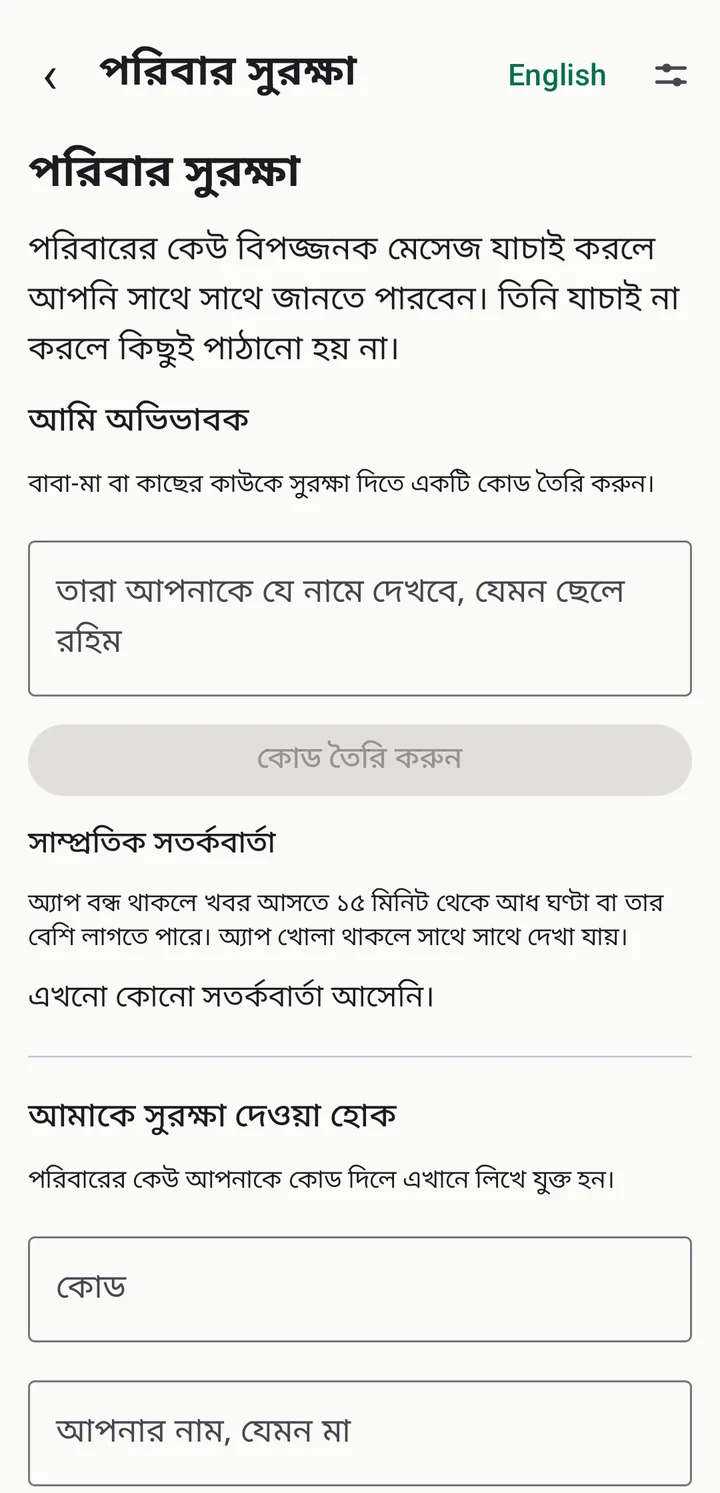
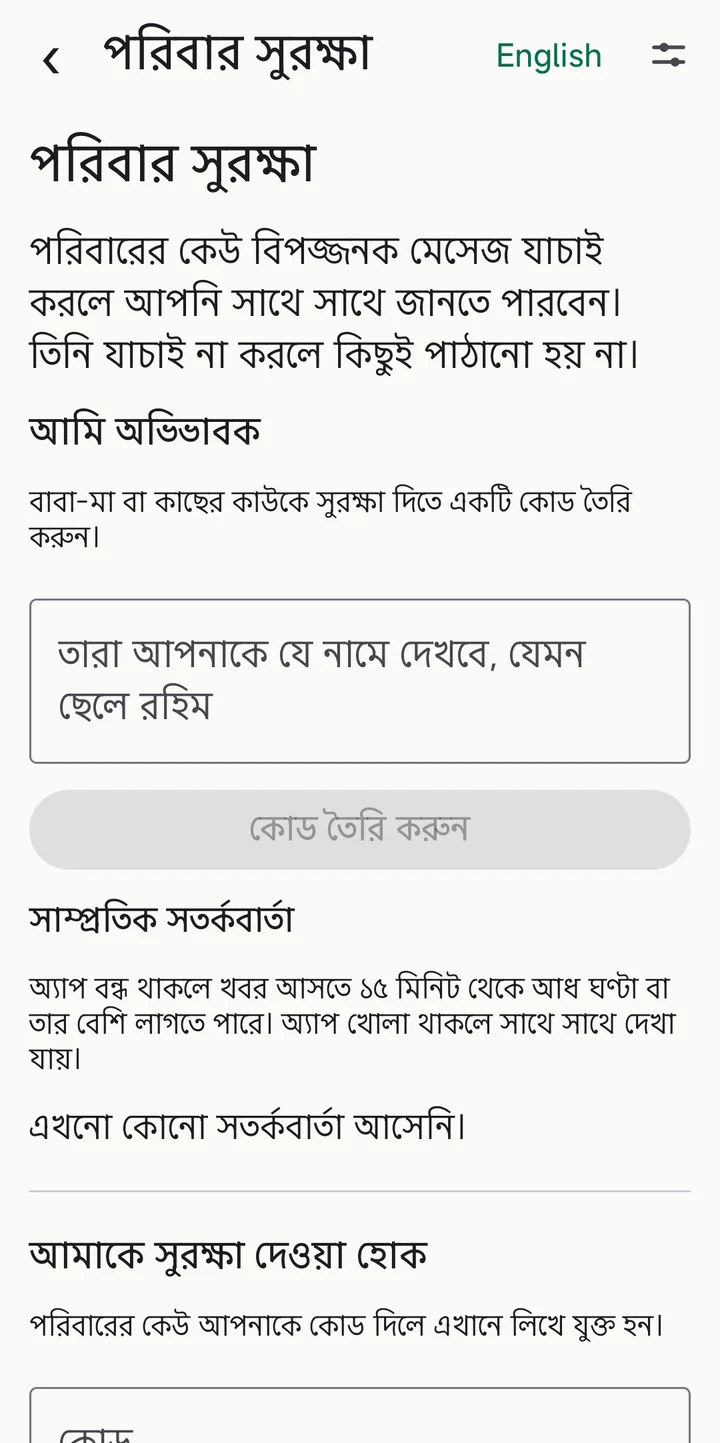
Website: show the auto-filled GD application, real-phone screenshots, one-page print note

diff --git a/index.html b/index.html
@@ -41,7 +41,7 @@
 </div>
 <p class="small"><a href="mailto:sotorko@azimulkabir.com?subject=Sotorko">প্রকাশের খবর পেতে ইমেইল করুন</a></p>
 </div>
-<div class="shot hero-shot"><img src="assets/shots/bn/result.webp" width="720" height="1493" alt="মেসেজ যাচাইয়ের ফল: লাল &quot;বিপদ&quot; বার্তা, কে পাঠিয়েছে তার তিনটি বিকল্প এবং ভুলে পাঠানো টাকা ফেরত চাওয়ার সতর্কতা।" decoding="async" fetchpriority="high"></div>
+<div class="shot hero-shot"><img src="assets/shots/bn/result.webp" width="720" height="1443" alt="মেসেজ যাচাইয়ের ফল: লাল &quot;বিপদ&quot; বার্তা, কে পাঠিয়েছে তার তিনটি বিকল্প এবং ভুলে পাঠানো টাকা ফেরত চাওয়ার সতর্কতা।" decoding="async" fetchpriority="high"></div>
 </div>
 </section>
 
@@ -63,16 +63,16 @@
 <section id="screens" class="tint-green" aria-labelledby="shots-h">
 <div class="wrap">
 <h2 id="shots-h">অ্যাপটি দেখতে যেমন</h2>
-<div class="gallery" tabindex="0" role="group" aria-labelledby="shots-h"><figure class="gallery-item"><div class="shot"><img src="assets/shots/bn/home.webp" width="720" height="1493" alt="সতর্ক অ্যাপের হোম স্ক্রিন: মেসেজ যাচাই, নম্বর যাচাই, পরিবার সুরক্ষা ও হটলাইনের বড় ছবির বোতাম, নিচে লাল রঙে &quot;আমি প্রতারিত হয়েছি&quot;।" loading="lazy" decoding="async"></div><figcaption><strong>সবকিছু এক জায়গায়</strong>বড় ছবির বোতামে মেসেজ ও নম্বর যাচাই, হটলাইন আর পরিবার সুরক্ষা। পড়তে হয় কম, বুঝতে সহজ।</figcaption></figure><figure class="gallery-item"><div class="shot"><img src="assets/shots/bn/scammed.webp" width="720" height="1493" alt="প্রতারিত হলে করণীয়ের পাঁচটি ধাপ এবং বিকাশ, নগদ, বাংলাদেশ ব্যাংক ও ৯৯৯-এ ফোন করার বোতাম।" loading="lazy" decoding="async"></div><figcaption><strong>প্রতারিত হলে করণীয়</strong>এখনই কী করবেন তার ধাপ আর হটলাইনে এক ট্যাপে ফোন। নিচে থানা ও সেবাদাতার অভিযোগের খসড়া।</figcaption></figure><figure class="gallery-item"><div class="shot"><img src="assets/shots/bn/family.webp" width="720" height="1493" alt="পরিবার সুরক্ষার পর্দা: অভিভাবক হিসেবে কোড তৈরি করার ঘর এবং কোড দিয়ে যুক্ত হওয়ার ঘর।" loading="lazy" decoding="async"></div><figcaption><strong>পরিবারকে সুরক্ষা দিন</strong>বাবা-মা বিপজ্জনক মেসেজ যাচাই করলে আপনি জানতে পারবেন। দুজনের সম্মতিতে, যেকোনো সময় বন্ধ করা যায়।</figcaption></figure></div>
-<p class="small">ছবির মেসেজটি বানানো একটি উদাহরণ। এখানে কারো আসল তথ্য নেই।</p>
+<div class="gallery" tabindex="0" role="group" aria-labelledby="shots-h"><figure class="gallery-item"><div class="shot"><img src="assets/shots/bn/home.webp" width="720" height="1443" alt="সতর্ক অ্যাপের হোম স্ক্রিন: মেসেজ যাচাই, নম্বর যাচাই, পরিবার সুরক্ষা ও হটলাইনের বড় ছবির বোতাম, নিচে লাল রঙে &quot;আমি প্রতারিত হয়েছি&quot;।" loading="lazy" decoding="async"></div><figcaption><strong>সবকিছু এক জায়গায়</strong>বড় ছবির বোতামে মেসেজ ও নম্বর যাচাই, হটলাইন আর পরিবার সুরক্ষা। পড়তে হয় কম, বুঝতে সহজ।</figcaption></figure><figure class="gallery-item"><div class="shot"><img src="assets/shots/bn/scammed.webp" width="720" height="1443" alt="প্রতারিত হলে করণীয়ের পাঁচটি ধাপ এবং বিকাশ, নগদ, বাংলাদেশ ব্যাংক ও ৯৯৯-এ ফোন করার বোতাম।" loading="lazy" decoding="async"></div><figcaption><strong>প্রতারিত হলে করণীয়</strong>এখনই কী করবেন তার ধাপ আর হটলাইনে এক ট্যাপে ফোন। নিচে থানা ও সেবাদাতার অভিযোগের খসড়া।</figcaption></figure><figure class="gallery-item"><div class="paper"><img src="assets/shots/bn/gd.webp" width="720" height="1018" alt="ছাপা জিডির আবেদন: ওসি-র উদ্দেশে লেখা, নাম, পিতার নাম, ঠিকানা, ঘটনার বিবরণ ও প্রতারকের নম্বর বসানো, তারিখ, থানা ও সইয়ের জন্য ফাঁকা লাইন সহ।" loading="lazy" decoding="async"></div><figcaption><strong>জিডির আবেদন, নিজে থেকে পূর্ণ</strong>আপনার তথ্য লিখলেই আবেদন পূর্ণ হয়ে যায়, এক পাতায় প্রিন্ট বা PDF করা যায়। যা লেখেননি, সেখানে হাতে লেখার জন্য লাইন টানা থাকে।</figcaption></figure><figure class="gallery-item"><div class="shot"><img src="assets/shots/bn/family.webp" width="720" height="1443" alt="পরিবার সুরক্ষার পর্দা: অভিভাবক হিসেবে কোড তৈরি করার ঘর এবং কোড দিয়ে যুক্ত হওয়ার ঘর।" loading="lazy" decoding="async"></div><figcaption><strong>পরিবারকে সুরক্ষা দিন</strong>বাবা-মা বিপজ্জনক মেসেজ যাচাই করলে আপনি জানতে পারবেন। দুজনের সম্মতিতে, যেকোনো সময় বন্ধ করা যায়।</figcaption></figure></div>
+<p class="small">ছবির মেসেজ ও তথ্য বানানো উদাহরণ। এখানে কারো আসল তথ্য নেই।</p>
 </div>
 </section>
 
 <section id="features" aria-labelledby="feat-h">
 <div class="wrap">
 <h2 id="feat-h">কী কী পাবেন</h2>
-<div class="cards"><article class="card t-message"><img src="assets/icons/message.svg" alt="" width="76" height="76"><h3>মেসেজ যাচাই</h3><p>পিন বা ওটিপি চাওয়া, &quot;ভুলে টাকা চলে গেছে, ফেরত দিন&quot;, পুরস্কারের প্রলোভন, ভুয়া লিংক: পরিচিত লক্ষণগুলো আপনার ফোনেই খুঁজে বের করে।</p></article><article class="card t-number"><img src="assets/icons/number.svg" alt="" width="76" height="76"><h3>নম্বর যাচাই</h3><p>একটি নম্বর নিয়ে অন্যরা কতবার অভিযোগ করেছেন, দেখুন। চাইলে নিজেও অভিযোগ করুন। এগুলো যাচাই-না-করা অভিযোগ, কারো সম্পর্কে রায় নয়।</p></article><article class="card t-family"><img src="assets/icons/family.svg" alt="" width="76" height="76"><h3>পরিবার সুরক্ষা</h3><p>বাবা-মা কোনো বিপজ্জনক মেসেজ যাচাই করলে আপনি জানতে পারবেন। দুজনের সম্মতিতে, আর যেকোনো সময় বিরতি বা বন্ধ করা যায়।</p></article><article class="card t-sos"><img src="assets/icons/sos.svg" alt="" width="76" height="76"><h3>আমি প্রতারিত হয়েছি</h3><p>এখনই কী করবেন তার ধাপ, হটলাইনে এক ট্যাপে ফোন, আর থানায় জিডি ও সেবাদাতার কাছে অভিযোগের খসড়া, যা প্রিন্ট বা PDF করা যায়। পুলিশের অফিসিয়াল অনলাইন জিডি ফর্মে বসানোর বিবরণও পাবেন।</p></article><article class="card t-hotline"><img src="assets/icons/hotline.svg" alt="" width="76" height="76"><h3>হটলাইন</h3><p>বিকাশ ১৬২৪৭, নগদ ১৬১৬৭, বাংলাদেশ ব্যাংক ১৬২৩৬, জাতীয় জরুরি সেবা ৯৯৯, এক ট্যাপে।</p></article></div>
-<ul class="also"><li>পুরোপুরি বাংলায়, ইংরেজিতেও চলে</li><li>ফোনে বড় লেখার ব্যবস্থা</li><li>ফোনের পিন বা প্যাটার্ন দিয়ে অ্যাপ লক</li><li>অন্ধকার (ডার্ক) মোড</li></ul>
+<div class="cards"><article class="card t-message"><img src="assets/icons/message.svg" alt="" width="76" height="76"><h3>মেসেজ যাচাই</h3><p>পিন বা ওটিপি চাওয়া, &quot;ভুলে টাকা চলে গেছে, ফেরত দিন&quot;, পুরস্কারের প্রলোভন, ভুয়া লিংক: পরিচিত লক্ষণগুলো আপনার ফোনেই খুঁজে বের করে।</p></article><article class="card t-number"><img src="assets/icons/number.svg" alt="" width="76" height="76"><h3>নম্বর যাচাই</h3><p>একটি নম্বর নিয়ে অন্যরা কতবার অভিযোগ করেছেন, দেখুন। চাইলে নিজেও অভিযোগ করুন। এগুলো যাচাই-না-করা অভিযোগ, কারো সম্পর্কে রায় নয়।</p></article><article class="card t-family"><img src="assets/icons/family.svg" alt="" width="76" height="76"><h3>পরিবার সুরক্ষা</h3><p>বাবা-মা কোনো বিপজ্জনক মেসেজ যাচাই করলে আপনি জানতে পারবেন। দুজনের সম্মতিতে, আর যেকোনো সময় বিরতি বা বন্ধ করা যায়।</p></article><article class="card t-sos"><img src="assets/icons/sos.svg" alt="" width="76" height="76"><h3>আমি প্রতারিত হয়েছি</h3><p>এখনই কী করবেন তার ধাপ আর হটলাইনে এক ট্যাপে ফোন। আপনার নাম, পিতার নাম ও ঠিকানা একবার লিখলেই থানার জিডির আবেদন নিজে থেকে পূর্ণ হয়ে যায়, এক পাতায় প্রিন্ট বা PDF করা যায়। সেবাদাতার কাছে অভিযোগের খসড়া আর পুলিশের অফিসিয়াল অনলাইন জিডি ফর্মে বসানোর বিবরণও পাবেন।</p></article><article class="card t-hotline"><img src="assets/icons/hotline.svg" alt="" width="76" height="76"><h3>হটলাইন</h3><p>বিকাশ ১৬২৪৭, নগদ ১৬১৬৭, বাংলাদেশ ব্যাংক ১৬২৩৬, জাতীয় জরুরি সেবা ৯৯৯, এক ট্যাপে।</p></article></div>
+<ul class="also"><li>পুরোপুরি বাংলায়, ইংরেজিতেও চলে</li><li>জিডির আবেদন প্রিন্ট বা PDF করা যায়</li><li>ফোনে বড় লেখার ব্যবস্থা</li><li>ফোনের পিন বা প্যাটার্ন দিয়ে অ্যাপ লক</li><li>অন্ধকার (ডার্ক) মোড</li></ul>
 </div>
 </section>
 
@@ -101,7 +101,7 @@
 <section id="faq" aria-labelledby="faq-h">
 <div class="wrap">
 <h2 id="faq-h">প্রশ্নোত্তর</h2>
-<details><summary>সতর্ক কি আমার এসএমএস পড়ে?</summary><p>না। অ্যাপটি এসএমএস, কল লগ বা কন্টাক্টের অনুমতি চায় না। আপনি যে মেসেজ শেয়ার বা পেস্ট করেন, শুধু সেটিই যাচাই হয়।</p></details><details><summary>&quot;কোনো লক্ষণ পাওয়া যায়নি&quot; মানে কি মেসেজটি নিরাপদ?</summary><p>না। সতর্ক পরিচিত প্রতারণার ধরন খোঁজে। নতুন ধরন বা অন্যভাবে লেখা মেসেজ সে ধরতে নাও পারে। সন্দেহ হলে হটলাইনে ফোন করুন।</p></details><details><summary>আমার মেসেজ কি ইন্টারনেটে যায়?</summary><p>না। শুধু আপনি &quot;পরিবার সুরক্ষা&quot;-য় সম্মতি দিয়ে যুক্ত হলে এবং কোনো মেসেজ বিপজ্জনক ধরা পড়লে, ওই মেসেজ আপনার বেছে নেওয়া অভিভাবকের কাছে যায়।</p></details><details><summary>সতর্ক কি আমার হয়ে জিডি করে দেয়?</summary><p>না। অনলাইন জিডি করতে হয় পুলিশের অফিসিয়াল অনলাইন জিডি সিস্টেমে, আপনার নিজের এনআইডি, লাইভ ছবি ও ওটিপি দিয়ে। সতর্ক শুধু কী লিখবেন তা তৈরি করে দেয় এবং ধাপগুলো দেখায়।</p></details><details><summary>কোনো নম্বরকে কি &quot;প্রতারক&quot; বলা হচ্ছে?</summary><p>না। অন্যদের জানানো অভিযোগ শুধু &quot;অভিযোগ&quot; হিসেবে, যাচাই-না-করা দাবি হিসেবে দেখানো হয়। কারো সম্পর্কে রায় দেওয়া হয় না।</p></details><details><summary>বিকাশ বা নগদের সাথে কি সতর্কের সম্পর্ক আছে?</summary><p>না। সতর্ক একটি স্বতন্ত্র অ্যাপ। বিকাশ, নগদ ও অন্য নামগুলো তাদের নিজ নিজ মালিকের।</p></details><details><summary>অ্যাপটি কোথায় পাব?</summary><p>Google Play-তে প্রকাশের কাজ চলছে। প্রকাশের খবর পেতে আমাদের ইমেইল করুন।</p></details><details><summary>কে বানিয়েছেন?</summary><p>Azimul Kabir Apu, একজন স্বাধীন ডেভেলপার।</p></details>
+<details><summary>সতর্ক কি আমার এসএমএস পড়ে?</summary><p>না। অ্যাপটি এসএমএস, কল লগ বা কন্টাক্টের অনুমতি চায় না। আপনি যে মেসেজ শেয়ার বা পেস্ট করেন, শুধু সেটিই যাচাই হয়।</p></details><details><summary>&quot;কোনো লক্ষণ পাওয়া যায়নি&quot; মানে কি মেসেজটি নিরাপদ?</summary><p>না। সতর্ক পরিচিত প্রতারণার ধরন খোঁজে। নতুন ধরন বা অন্যভাবে লেখা মেসেজ সে ধরতে নাও পারে। সন্দেহ হলে হটলাইনে ফোন করুন।</p></details><details><summary>আমার মেসেজ কি ইন্টারনেটে যায়?</summary><p>না। শুধু আপনি &quot;পরিবার সুরক্ষা&quot;-য় সম্মতি দিয়ে যুক্ত হলে এবং কোনো মেসেজ বিপজ্জনক ধরা পড়লে, ওই মেসেজ আপনার বেছে নেওয়া অভিভাবকের কাছে যায়।</p></details><details><summary>সতর্ক কি আমার হয়ে জিডি করে দেয়?</summary><p>না। অনলাইন জিডি করতে হয় পুলিশের অফিসিয়াল অনলাইন জিডি সিস্টেমে, আপনার নিজের এনআইডি, লাইভ ছবি ও ওটিপি দিয়ে। সতর্ক শুধু কী লিখবেন তা তৈরি করে দেয় এবং ধাপগুলো দেখায়।</p></details><details><summary>সতর্কের জিডির আবেদন কি পুলিশের আসল ফরম্যাটে?</summary><p>পুলিশের কোনো একক সরকারি ফর্ম আমরা পাইনি। আবেদনটি প্রচলিত চিঠির ধাঁচে লেখা একটি খসড়া: ওসি-কে উদ্দেশ করে, বিষয়, ঘটনা, অনুরোধ আর আপনার নাম-ঠিকানা সহ। থানার নিজস্ব ফর্ম থাকলে সেটি ব্যবহার করুন; খসড়াটি সেটি পূরণ করতে কাজে লাগবে।</p></details><details><summary>কোনো নম্বরকে কি &quot;প্রতারক&quot; বলা হচ্ছে?</summary><p>না। অন্যদের জানানো অভিযোগ শুধু &quot;অভিযোগ&quot; হিসেবে, যাচাই-না-করা দাবি হিসেবে দেখানো হয়। কারো সম্পর্কে রায় দেওয়া হয় না।</p></details><details><summary>বিকাশ বা নগদের সাথে কি সতর্কের সম্পর্ক আছে?</summary><p>না। সতর্ক একটি স্বতন্ত্র অ্যাপ। বিকাশ, নগদ ও অন্য নামগুলো তাদের নিজ নিজ মালিকের।</p></details><details><summary>অ্যাপটি কোথায় পাব?</summary><p>Google Play-তে প্রকাশের কাজ চলছে। প্রকাশের খবর পেতে আমাদের ইমেইল করুন।</p></details><details><summary>কে বানিয়েছেন?</summary><p>Azimul Kabir Apu, একজন স্বাধীন ডেভেলপার।</p></details>
 </div>
 </section>
 </main>

diff --git a/en/index.html b/en/index.html
@@ -41,7 +41,7 @@
 </div>
 <p class="small"><a href="mailto:sotorko@azimulkabir.com?subject=Sotorko">Email us to hear when it is out</a></p>
 </div>
-<div class="shot hero-shot"><img src="../assets/shots/en/result.webp" width="720" height="1493" alt="The result of a message check: a red danger notice, three choices for who sent the message, and a warning about being asked to return money sent by mistake." decoding="async" fetchpriority="high"></div>
+<div class="shot hero-shot"><img src="../assets/shots/en/result.webp" width="720" height="1443" alt="The result of a message check: a red danger notice, three choices for who sent the message, and a warning about being asked to return money sent by mistake." decoding="async" fetchpriority="high"></div>
 </div>
 </section>
 
@@ -63,16 +63,16 @@
 <section id="screens" class="tint-green" aria-labelledby="shots-h">
 <div class="wrap">
 <h2 id="shots-h">See the app</h2>
-<div class="gallery" tabindex="0" role="group" aria-labelledby="shots-h"><figure class="gallery-item"><div class="shot"><img src="../assets/shots/en/home.webp" width="720" height="1493" alt="The Sotorko home screen: big picture buttons for Check a message, Check a number, Family guardian and Hotlines, and a red &quot;I&#x27;ve been scammed&quot; button below." loading="lazy" decoding="async"></div><figcaption><strong>Everything in one place</strong>Big picture buttons for checking a message or a number, the hotlines and the family guardian. Little to read, easy to follow.</figcaption></figure><figure class="gallery-item"><div class="shot"><img src="../assets/shots/en/scammed.webp" width="720" height="1493" alt="Five steps to take after being scammed, and buttons to call bKash, Nagad, Bangladesh Bank and 999." loading="lazy" decoding="async"></div><figcaption><strong>What to do if you were scammed</strong>The steps to take right now and one-tap calls to the hotlines. Below them, drafts for the police and your service provider.</figcaption></figure><figure class="gallery-item"><div class="shot"><img src="../assets/shots/en/family.webp" width="720" height="1493" alt="The Family guardian screen: a box to create a code as a guardian, and a box to join with a code." loading="lazy" decoding="async"></div><figcaption><strong>Protect your family</strong>Know when your parents check a dangerous message. Both sides agree first, and either can stop it at any time.</figcaption></figure></div>
-<p class="small">The message in the picture is a made-up example. It shows nobody&#x27;s real information.</p>
+<div class="gallery" tabindex="0" role="group" aria-labelledby="shots-h"><figure class="gallery-item"><div class="shot"><img src="../assets/shots/en/home.webp" width="720" height="1443" alt="The Sotorko home screen: big picture buttons for Check a message, Check a number, Family guardian and Hotlines, and a red &quot;I&#x27;ve been scammed&quot; button below." loading="lazy" decoding="async"></div><figcaption><strong>Everything in one place</strong>Big picture buttons for checking a message or a number, the hotlines and the family guardian. Little to read, easy to follow.</figcaption></figure><figure class="gallery-item"><div class="shot"><img src="../assets/shots/en/scammed.webp" width="720" height="1443" alt="Five steps to take after being scammed, and buttons to call bKash, Nagad, Bangladesh Bank and 999." loading="lazy" decoding="async"></div><figcaption><strong>What to do if you were scammed</strong>The steps to take right now and one-tap calls to the hotlines. Below them, drafts for the police and your service provider.</figcaption></figure><figure class="gallery-item"><div class="paper"><img src="../assets/shots/en/gd.webp" width="720" height="1018" alt="The printed GD application addressed to the Officer in Charge, with the name, father&#x27;s name, address, account of what happened and scammer&#x27;s number filled in, and blank lines for the date, station and signature." loading="lazy" decoding="async"></div><figcaption><strong>The GD application, filled in</strong>Type your details and the application fills itself in, ready to print or save as a PDF on one page. Anything you leave out becomes a line to write on by hand.</figcaption></figure><figure class="gallery-item"><div class="shot"><img src="../assets/shots/en/family.webp" width="720" height="1443" alt="The Family guardian screen: a box to create a code as a guardian, and a box to join with a code." loading="lazy" decoding="async"></div><figcaption><strong>Protect your family</strong>Know when your parents check a dangerous message. Both sides agree first, and either can stop it at any time.</figcaption></figure></div>
+<p class="small">The message and details in the pictures are made-up examples. They show nobody&#x27;s real information.</p>
 </div>
 </section>
 
 <section id="features" aria-labelledby="feat-h">
 <div class="wrap">
 <h2 id="feat-h">What you get</h2>
-<div class="cards"><article class="card t-message"><img src="../assets/icons/message.svg" alt="" width="76" height="76"><h3>Check a message</h3><p>Finds the classic warning signs on your phone: asking for your PIN or OTP, &quot;sent by mistake, send it back&quot;, prize bait and fake links.</p></article><article class="card t-number"><img src="../assets/icons/number.svg" alt="" width="76" height="76"><h3>Check a number</h3><p>See how many people have reported a number, and report one yourself. These are unverified reports, not a verdict on anyone.</p></article><article class="card t-family"><img src="../assets/icons/family.svg" alt="" width="76" height="76"><h3>Family guardian</h3><p>Know when your parents check a dangerous message. Both sides agree first, and either can pause or stop it at any time.</p></article><article class="card t-sos"><img src="../assets/icons/sos.svg" alt="" width="76" height="76"><h3>I&#x27;ve been scammed</h3><p>The steps to take right now, one-tap calls to the hotlines, and drafts of a police GD (printable, or saved as a PDF) and a complaint to your service provider, plus the details ready to paste into the police&#x27;s official Online GD form.</p></article><article class="card t-hotline"><img src="../assets/icons/hotline.svg" alt="" width="76" height="76"><h3>Hotlines</h3><p>bKash 16247, Nagad 16167, Bangladesh Bank 16236 and national emergency 999, one tap away.</p></article></div>
-<ul class="also"><li>Fully in Bangla, and in English too</li><li>Adjustable text size</li><li>App lock with your phone&#x27;s PIN or pattern</li><li>Dark mode</li></ul>
+<div class="cards"><article class="card t-message"><img src="../assets/icons/message.svg" alt="" width="76" height="76"><h3>Check a message</h3><p>Finds the classic warning signs on your phone: asking for your PIN or OTP, &quot;sent by mistake, send it back&quot;, prize bait and fake links.</p></article><article class="card t-number"><img src="../assets/icons/number.svg" alt="" width="76" height="76"><h3>Check a number</h3><p>See how many people have reported a number, and report one yourself. These are unverified reports, not a verdict on anyone.</p></article><article class="card t-family"><img src="../assets/icons/family.svg" alt="" width="76" height="76"><h3>Family guardian</h3><p>Know when your parents check a dangerous message. Both sides agree first, and either can pause or stop it at any time.</p></article><article class="card t-sos"><img src="../assets/icons/sos.svg" alt="" width="76" height="76"><h3>I&#x27;ve been scammed</h3><p>The steps to take right now and one-tap calls to the hotlines. Type your name, father&#x27;s name and address once and the police GD application fills itself in, ready to print or save as a PDF on one page. You also get a complaint to your service provider and details ready to paste into the police&#x27;s official Online GD form.</p></article><article class="card t-hotline"><img src="../assets/icons/hotline.svg" alt="" width="76" height="76"><h3>Hotlines</h3><p>bKash 16247, Nagad 16167, Bangladesh Bank 16236 and national emergency 999, one tap away.</p></article></div>
+<ul class="also"><li>Fully in Bangla, and in English too</li><li>Print the GD application or save it as a PDF</li><li>Adjustable text size</li><li>App lock with your phone&#x27;s PIN or pattern</li><li>Dark mode</li></ul>
 </div>
 </section>
 
@@ -101,7 +101,7 @@
 <section id="faq" aria-labelledby="faq-h">
 <div class="wrap">
 <h2 id="faq-h">FAQ</h2>
-<details><summary>Does Sotorko read my SMS?</summary><p>No. The app does not ask for SMS, call log or contacts permission. Only the message you share or paste is checked.</p></details><details><summary>Does &quot;no warning signs found&quot; mean the message is safe?</summary><p>No. Sotorko looks for known scam patterns. A new kind of scam, or one worded differently, can slip past. If in doubt, call the hotline.</p></details><details><summary>Does my message go online?</summary><p>No. Only if you join &quot;Family guardian&quot; with your consent, and a message is found dangerous, that message goes to the guardian you chose.</p></details><details><summary>Does Sotorko file the GD for me?</summary><p>No. An online GD is filed in the police&#x27;s official Online GD system, with your own national ID, a live photo and an OTP. Sotorko writes what to say and shows you the steps.</p></details><details><summary>Are numbers being called &quot;scammers&quot;?</summary><p>No. What others report is shown only as &quot;reports&quot;, unverified claims. No verdict is given about anyone.</p></details><details><summary>Is Sotorko connected to bKash or Nagad?</summary><p>No. Sotorko is an independent app. bKash, Nagad and other names belong to their owners.</p></details><details><summary>Where can I get the app?</summary><p>It is being prepared for Google Play. Email us to hear when it is out.</p></details><details><summary>Who makes it?</summary><p>Azimul Kabir Apu, an independent developer.</p></details>
+<details><summary>Does Sotorko read my SMS?</summary><p>No. The app does not ask for SMS, call log or contacts permission. Only the message you share or paste is checked.</p></details><details><summary>Does &quot;no warning signs found&quot; mean the message is safe?</summary><p>No. Sotorko looks for known scam patterns. A new kind of scam, or one worded differently, can slip past. If in doubt, call the hotline.</p></details><details><summary>Does my message go online?</summary><p>No. Only if you join &quot;Family guardian&quot; with your consent, and a message is found dangerous, that message goes to the guardian you chose.</p></details><details><summary>Does Sotorko file the GD for me?</summary><p>No. An online GD is filed in the police&#x27;s official Online GD system, with your own national ID, a live photo and an OTP. Sotorko writes what to say and shows you the steps.</p></details><details><summary>Is the GD application in the police&#x27;s official format?</summary><p>We have not found a single official form. The application is a draft in the usual letter style: addressed to the Officer in Charge, with a subject, what happened, a request and your name and address. If your station has its own form, use that; the draft still helps you fill it in.</p></details><details><summary>Are numbers being called &quot;scammers&quot;?</summary><p>No. What others report is shown only as &quot;reports&quot;, unverified claims. No verdict is given about anyone.</p></details><details><summary>Is Sotorko connected to bKash or Nagad?</summary><p>No. Sotorko is an independent app. bKash, Nagad and other names belong to their owners.</p></details><details><summary>Where can I get the app?</summary><p>It is being prepared for Google Play. Email us to hear when it is out.</p></details><details><summary>Who makes it?</summary><p>Azimul Kabir Apu, an independent developer.</p></details>
 </div>
 </section>
 </main>

diff --git a/assets/style.css b/assets/style.css
@@ -92,13 +92,19 @@ p { margin: 0 0 1em; }
 .shot { width: min(300px, 100%); margin-inline: auto; border: 9px solid #1b1b18; border-radius: 38px; overflow: hidden; background: #1b1b18; box-shadow: 0 18px 40px rgba(0, 0, 0, .18); }
 .shot img { display: block; width: 100%; height: auto; aspect-ratio: 720 / 1493; }
 .hero-shot { width: min(290px, 100%); }
+.paper { width: min(300px, 100%); margin-inline: auto; background: #fff; border: 1px solid var(--line); border-radius: 4px; box-shadow: 0 14px 34px rgba(0, 0, 0, .16); overflow: hidden; }
+.paper img { display: block; width: 100%; height: auto; }
+.gallery-item { align-self: start; }
 .gallery { display: flex; gap: 1.2rem; overflow-x: auto; scroll-snap-type: x mandatory; padding: .5rem .2rem 1rem; margin-top: 1.5rem; scrollbar-width: thin; }
 .gallery-item { flex: 0 0 min(72%, 300px); scroll-snap-align: center; margin: 0; }
 .gallery-item figcaption { margin-top: 1rem; font-size: .95rem; line-height: 1.7; color: var(--muted); }
 .gallery-item figcaption strong { display: block; color: var(--fg); font-size: 1.05rem; }
-@media (min-width: 880px) {
-  .gallery { display: grid; grid-template-columns: repeat(3, 1fr); gap: 2rem; overflow: visible; padding-inline: 0; }
+@media (min-width: 720px) {
+  .gallery { display: grid; grid-template-columns: repeat(2, 1fr); gap: 2rem; overflow: visible; padding-inline: 0; }
   .gallery-item { flex: none; }
+}
+@media (min-width: 1040px) {
+  .gallery { grid-template-columns: repeat(4, 1fr); gap: 1.6rem; }
 }
 
 /* sections */

diff --git a/content.py b/content.py
@@ -26,12 +26,14 @@ BN = {
     "phone_tagline": "টাকা পাঠানোর আগে একবার যাচাই করুন",
     "hero_alt": "মেসেজ যাচাইয়ের ফল: লাল \"বিপদ\" বার্তা, কে পাঠিয়েছে তার তিনটি বিকল্প এবং ভুলে পাঠানো টাকা ফেরত চাওয়ার সতর্কতা।",
     "screens_title": "অ্যাপটি দেখতে যেমন",
-    "screens_note": "ছবির মেসেজটি বানানো একটি উদাহরণ। এখানে কারো আসল তথ্য নেই।",
+    "screens_note": "ছবির মেসেজ ও তথ্য বানানো উদাহরণ। এখানে কারো আসল তথ্য নেই।",
     "screens": [
         ("home", "সবকিছু এক জায়গায়", "বড় ছবির বোতামে মেসেজ ও নম্বর যাচাই, হটলাইন আর পরিবার সুরক্ষা। পড়তে হয় কম, বুঝতে সহজ।",
          "সতর্ক অ্যাপের হোম স্ক্রিন: মেসেজ যাচাই, নম্বর যাচাই, পরিবার সুরক্ষা ও হটলাইনের বড় ছবির বোতাম, নিচে লাল রঙে \"আমি প্রতারিত হয়েছি\"।"),
         ("scammed", "প্রতারিত হলে করণীয়", "এখনই কী করবেন তার ধাপ আর হটলাইনে এক ট্যাপে ফোন। নিচে থানা ও সেবাদাতার অভিযোগের খসড়া।",
          "প্রতারিত হলে করণীয়ের পাঁচটি ধাপ এবং বিকাশ, নগদ, বাংলাদেশ ব্যাংক ও ৯৯৯-এ ফোন করার বোতাম।"),
+        ("gd", "জিডির আবেদন, নিজে থেকে পূর্ণ", "আপনার তথ্য লিখলেই আবেদন পূর্ণ হয়ে যায়, এক পাতায় প্রিন্ট বা PDF করা যায়। যা লেখেননি, সেখানে হাতে লেখার জন্য লাইন টানা থাকে।",
+         "ছাপা জিডির আবেদন: ওসি-র উদ্দেশে লেখা, নাম, পিতার নাম, ঠিকানা, ঘটনার বিবরণ ও প্রতারকের নম্বর বসানো, তারিখ, থানা ও সইয়ের জন্য ফাঁকা লাইন সহ।"),
         ("family", "পরিবারকে সুরক্ষা দিন", "বাবা-মা বিপজ্জনক মেসেজ যাচাই করলে আপনি জানতে পারবেন। দুজনের সম্মতিতে, যেকোনো সময় বন্ধ করা যায়।",
          "পরিবার সুরক্ষার পর্দা: অভিভাবক হিসেবে কোড তৈরি করার ঘর এবং কোড দিয়ে যুক্ত হওয়ার ঘর।"),
     ],
@@ -54,10 +56,10 @@ BN = {
         ("message", "মেসেজ যাচাই", "পিন বা ওটিপি চাওয়া, \"ভুলে টাকা চলে গেছে, ফেরত দিন\", পুরস্কারের প্রলোভন, ভুয়া লিংক: পরিচিত লক্ষণগুলো আপনার ফোনেই খুঁজে বের করে।"),
         ("number", "নম্বর যাচাই", "একটি নম্বর নিয়ে অন্যরা কতবার অভিযোগ করেছেন, দেখুন। চাইলে নিজেও অভিযোগ করুন। এগুলো যাচাই-না-করা অভিযোগ, কারো সম্পর্কে রায় নয়।"),
         ("family", "পরিবার সুরক্ষা", "বাবা-মা কোনো বিপজ্জনক মেসেজ যাচাই করলে আপনি জানতে পারবেন। দুজনের সম্মতিতে, আর যেকোনো সময় বিরতি বা বন্ধ করা যায়।"),
-        ("sos", "আমি প্রতারিত হয়েছি", "এখনই কী করবেন তার ধাপ, হটলাইনে এক ট্যাপে ফোন, আর থানায় জিডি ও সেবাদাতার কাছে অভিযোগের খসড়া, যা প্রিন্ট বা PDF করা যায়। পুলিশের অফিসিয়াল অনলাইন জিডি ফর্মে বসানোর বিবরণও পাবেন।"),
+        ("sos", "আমি প্রতারিত হয়েছি", "এখনই কী করবেন তার ধাপ আর হটলাইনে এক ট্যাপে ফোন। আপনার নাম, পিতার নাম ও ঠিকানা একবার লিখলেই থানার জিডির আবেদন নিজে থেকে পূর্ণ হয়ে যায়, এক পাতায় প্রিন্ট বা PDF করা যায়। সেবাদাতার কাছে অভিযোগের খসড়া আর পুলিশের অফিসিয়াল অনলাইন জিডি ফর্মে বসানোর বিবরণও পাবেন।"),
         ("hotline", "হটলাইন", "বিকাশ ১৬২৪৭, নগদ ১৬১৬৭, বাংলাদেশ ব্যাংক ১৬২৩৬, জাতীয় জরুরি সেবা ৯৯৯, এক ট্যাপে।"),
     ],
-    "also": ["পুরোপুরি বাংলায়, ইংরেজিতেও চলে", "ফোনে বড় লেখার ব্যবস্থা", "ফোনের পিন বা প্যাটার্ন দিয়ে অ্যাপ লক", "অন্ধকার (ডার্ক) মোড"],
+    "also": ["পুরোপুরি বাংলায়, ইংরেজিতেও চলে", "জিডির আবেদন প্রিন্ট বা PDF করা যায়", "ফোনে বড় লেখার ব্যবস্থা", "ফোনের পিন বা প্যাটার্ন দিয়ে অ্যাপ লক", "অন্ধকার (ডার্ক) মোড"],
     "scams_title": "চেনা প্রতারণা, আর কী করবেন",
     "look": "দেখতে যেমন",
     "do": "কী করবেন",
@@ -83,6 +85,7 @@ BN = {
         ("\"কোনো লক্ষণ পাওয়া যায়নি\" মানে কি মেসেজটি নিরাপদ?", "না। সতর্ক পরিচিত প্রতারণার ধরন খোঁজে। নতুন ধরন বা অন্যভাবে লেখা মেসেজ সে ধরতে নাও পারে। সন্দেহ হলে হটলাইনে ফোন করুন।"),
         ("আমার মেসেজ কি ইন্টারনেটে যায়?", "না। শুধু আপনি \"পরিবার সুরক্ষা\"-য় সম্মতি দিয়ে যুক্ত হলে এবং কোনো মেসেজ বিপজ্জনক ধরা পড়লে, ওই মেসেজ আপনার বেছে নেওয়া অভিভাবকের কাছে যায়।"),
         ("সতর্ক কি আমার হয়ে জিডি করে দেয়?", "না। অনলাইন জিডি করতে হয় পুলিশের অফিসিয়াল অনলাইন জিডি সিস্টেমে, আপনার নিজের এনআইডি, লাইভ ছবি ও ওটিপি দিয়ে। সতর্ক শুধু কী লিখবেন তা তৈরি করে দেয় এবং ধাপগুলো দেখায়।"),
+        ("সতর্কের জিডির আবেদন কি পুলিশের আসল ফরম্যাটে?", "পুলিশের কোনো একক সরকারি ফর্ম আমরা পাইনি। আবেদনটি প্রচলিত চিঠির ধাঁচে লেখা একটি খসড়া: ওসি-কে উদ্দেশ করে, বিষয়, ঘটনা, অনুরোধ আর আপনার নাম-ঠিকানা সহ। থানার নিজস্ব ফর্ম থাকলে সেটি ব্যবহার করুন; খসড়াটি সেটি পূরণ করতে কাজে লাগবে।"),
         ("কোনো নম্বরকে কি \"প্রতারক\" বলা হচ্ছে?", "না। অন্যদের জানানো অভিযোগ শুধু \"অভিযোগ\" হিসেবে, যাচাই-না-করা দাবি হিসেবে দেখানো হয়। কারো সম্পর্কে রায় দেওয়া হয় না।"),
         ("বিকাশ বা নগদের সাথে কি সতর্কের সম্পর্ক আছে?", "না। সতর্ক একটি স্বতন্ত্র অ্যাপ। বিকাশ, নগদ ও অন্য নামগুলো তাদের নিজ নিজ মালিকের।"),
         ("অ্যাপটি কোথায় পাব?", "Google Play-তে প্রকাশের কাজ চলছে। প্রকাশের খবর পেতে আমাদের ইমেইল করুন।"),
@@ -114,12 +117,14 @@ EN = {
     "phone_tagline": "Check once before you send money",
     "hero_alt": "The result of a message check: a red danger notice, three choices for who sent the message, and a warning about being asked to return money sent by mistake.",
     "screens_title": "See the app",
-    "screens_note": "The message in the picture is a made-up example. It shows nobody's real information.",
+    "screens_note": "The message and details in the pictures are made-up examples. They show nobody's real information.",
     "screens": [
         ("home", "Everything in one place", "Big picture buttons for checking a message or a number, the hotlines and the family guardian. Little to read, easy to follow.",
          "The Sotorko home screen: big picture buttons for Check a message, Check a number, Family guardian and Hotlines, and a red \"I've been scammed\" button below."),
         ("scammed", "What to do if you were scammed", "The steps to take right now and one-tap calls to the hotlines. Below them, drafts for the police and your service provider.",
          "Five steps to take after being scammed, and buttons to call bKash, Nagad, Bangladesh Bank and 999."),
+        ("gd", "The GD application, filled in", "Type your details and the application fills itself in, ready to print or save as a PDF on one page. Anything you leave out becomes a line to write on by hand.",
+         "The printed GD application addressed to the Officer in Charge, with the name, father's name, address, account of what happened and scammer's number filled in, and blank lines for the date, station and signature."),
         ("family", "Protect your family", "Know when your parents check a dangerous message. Both sides agree first, and either can stop it at any time.",
          "The Family guardian screen: a box to create a code as a guardian, and a box to join with a code."),
     ],
@@ -142,10 +147,10 @@ EN = {
         ("message", "Check a message", "Finds the classic warning signs on your phone: asking for your PIN or OTP, \"sent by mistake, send it back\", prize bait and fake links."),
         ("number", "Check a number", "See how many people have reported a number, and report one yourself. These are unverified reports, not a verdict on anyone."),
         ("family", "Family guardian", "Know when your parents check a dangerous message. Both sides agree first, and either can pause or stop it at any time."),
-        ("sos", "I've been scammed", "The steps to take right now, one-tap calls to the hotlines, and drafts of a police GD (printable, or saved as a PDF) and a complaint to your service provider, plus the details ready to paste into the police's official Online GD form."),
+        ("sos", "I've been scammed", "The steps to take right now and one-tap calls to the hotlines. Type your name, father's name and address once and the police GD application fills itself in, ready to print or save as a PDF on one page. You also get a complaint to your service provider and details ready to paste into the police's official Online GD form."),
         ("hotline", "Hotlines", "bKash 16247, Nagad 16167, Bangladesh Bank 16236 and national emergency 999, one tap away."),
     ],
-    "also": ["Fully in Bangla, and in English too", "Adjustable text size", "App lock with your phone's PIN or pattern", "Dark mode"],
+    "also": ["Fully in Bangla, and in English too", "Print the GD application or save it as a PDF", "Adjustable text size", "App lock with your phone's PIN or pattern", "Dark mode"],
     "scams_title": "Common scams, and what to do",
     "look": "What it looks like",
     "do": "What to do",
@@ -171,6 +176,7 @@ EN = {
         ("Does \"no warning signs found\" mean the message is safe?", "No. Sotorko looks for known scam patterns. A new kind of scam, or one worded differently, can slip past. If in doubt, call the hotline."),
         ("Does my message go online?", "No. Only if you join \"Family guardian\" with your consent, and a message is found dangerous, that message goes to the guardian you chose."),
         ("Does Sotorko file the GD for me?", "No. An online GD is filed in the police's official Online GD system, with your own national ID, a live photo and an OTP. Sotorko writes what to say and shows you the steps."),
+        ("Is the GD application in the police's official format?", "We have not found a single official form. The application is a draft in the usual letter style: addressed to the Officer in Charge, with a subject, what happened, a request and your name and address. If your station has its own form, use that; the draft still helps you fill it in."),
         ("Are numbers being called \"scammers\"?", "No. What others report is shown only as \"reports\", unverified claims. No verdict is given about anyone."),
         ("Is Sotorko connected to bKash or Nagad?", "No. Sotorko is an independent app. bKash, Nagad and other names belong to their owners."),
         ("Where can I get the app?", "It is being prepared for Google Play. Email us to hear when it is out."),

diff --git a/scripts/optimize_shots.py b/scripts/optimize_shots.py
@@ -7,24 +7,46 @@ The raw PNGs come from the app repo's tools/capture_screenshots.py. Needs Pillow
 site build itself does not, because the optimised files are committed. Output: assets/shots/{bn,en}/NAME.webp
 at 720 px wide (crisp on phones, about 40-80 KB each), with the phone's own status and gesture bars cropped off.
 """
+import json
 import pathlib
 import sys
 
-from PIL import Image
+from PIL import Image, ImageChops
 
-NAMES = ["home", "result", "scammed", "family"]
+NAMES = ["home", "result", "scammed", "family"]  # phone screens
+PAPER = "gd"  # the print preview of the GD letter: only the white sheet is kept
 WIDTH = 720
-TOP, BOTTOM = 100, 60  # pixels of the 1080x2400 capture that belong to Android (status bar, gesture bar), not the app
+TOP, BOTTOM = 100, 135  # pixels of the 1080x2400 capture that belong to Android (status bar, navigation bar), not the app
 ROOT = pathlib.Path(__file__).resolve().parent.parent
 
+def paper_only(image):
+    """Crop to the white sheet in a print-preview screenshot (the rest is the print dialog's grey)."""
+    mask = image.point(lambda v: 255 if v >= 253 else 0)
+    r, g, b = mask.split()
+    white = ImageChops.multiply(ImageChops.multiply(r, g), b)
+    left, top, right, bottom = white.getbbox()
+    # The dialog's grey page bar has white text on it, which would stretch the box down. Drop bottom rows that are not mostly white.
+    width = right - left
+    while bottom > top and white.crop((left, bottom - 1, right, bottom)).histogram()[255] < 0.9 * width:
+        bottom -= 1
+    return image.crop((left, top, right, bottom))
+
+
 raw = pathlib.Path(sys.argv[1]).expanduser() if len(sys.argv) > 1 else sys.exit(__doc__)
+sizes = {}
 for lang in ("bn", "en"):
-    for name in NAMES:
+    for name in NAMES + [PAPER]:
         source = raw / lang / f"{name}.png"
         image = Image.open(source).convert("RGB")
-        image = image.crop((0, TOP, image.width, image.height - BOTTOM))
+        if name == PAPER:
+            image = paper_only(image)
+        else:
+            image = image.crop((0, TOP, image.width, image.height - BOTTOM))
         height = round(image.height * WIDTH / image.width)
         target = ROOT / "assets/shots" / lang / f"{name}.webp"
         target.parent.mkdir(parents=True, exist_ok=True)
         image.resize((WIDTH, height), Image.LANCZOS).save(target, "WEBP", quality=82, method=6)
+        sizes[f"{lang}/{name}"] = [WIDTH, height]
         print(f"{target.relative_to(ROOT)}  {WIDTH}x{height}  {target.stat().st_size // 1024} KB")
+# build.py needs each image's size (for width/height attributes) and has no image library
+(ROOT / "assets/shots/manifest.json").write_text(json.dumps(sizes, indent=1) + "\n")

diff --git a/build.py b/build.py
@@ -14,6 +14,7 @@ import pathlib
 from content import BN, DEVELOPER, DEVELOPER_SITE, EMAIL, EN, GITHUB, SITE
 
 ROOT = pathlib.Path(__file__).resolve().parent
+SHOT_SIZES = json.loads((ROOT / "assets/shots/manifest.json").read_text())  # written by scripts/optimize_shots.py
 TODAY = "2026-10-23"
 LOCALE = {"bn": "bn_BD", "en": "en_US"}
 TILE_CLASS = {"message": "t-message", "number": "t-number", "family": "t-family", "hotline": "t-hotline", "sos": "t-sos"}
@@ -89,7 +90,7 @@ def footer(c, *, base, privacy_href):
 
 def phone(c, base):
     """A real screenshot (the result of a message check) in a phone frame. width/height keep the layout still while it loads."""
-    return (f'<div class="shot hero-shot"><img src="{base}assets/shots/{c["lang"]}/result.webp" width="720" height="1493" '
+    return (f'<div class="shot hero-shot"><img src="{base}assets/shots/{c["lang"]}/result.webp" width="{SHOT_SIZES[c["lang"] + "/result"][0]}" height="{SHOT_SIZES[c["lang"] + "/result"][1]}" '
             f'alt="{e(c["hero_alt"])}" decoding="async" fetchpriority="high"></div>')
 
 
@@ -103,10 +104,12 @@ def render_home(c, *, base, home, switch_href, privacy_href, path, alt_links):
     scams = "".join(
         f'<article class="scam"><h3>{e(t)}</h3><span class="label">{e(c["look"])}</span><p>{e(l)}</p><span class="label">{e(c["do"])}</span><p class="do">{e(d)}</p></article>'
         for t, l, d in c["scams"])
-    shots = "".join(
-        f'<figure class="gallery-item"><div class="shot"><img src="{base}assets/shots/{c["lang"]}/{name}.webp" width="720" height="1493" '
-        f'alt="{e(alt)}" loading="lazy" decoding="async"></div><figcaption><strong>{e(title)}</strong>{e(text)}</figcaption></figure>'
-        for name, title, text, alt in c["screens"])
+    def figure(name, title, text, alt):
+        width, height = SHOT_SIZES[f"{c['lang']}/{name}"]
+        frame = "paper" if name == "gd" else "shot"  # the GD letter is a sheet of paper, the rest are phone screens
+        return (f'<figure class="gallery-item"><div class="{frame}"><img src="{base}assets/shots/{c["lang"]}/{name}.webp" width="{width}" height="{height}" '
+                f'alt="{e(alt)}" loading="lazy" decoding="async"></div><figcaption><strong>{e(title)}</strong>{e(text)}</figcaption></figure>')
+    shots = "".join(figure(*item) for item in c["screens"])
     points = "".join(f"<li>{e(x)}</li>" for x in c["privacy_points"])
     digits = str.maketrans("0123456789", "০১২৩৪৫৬৭৮৯") if c["lang"] == "bn" else {}
     hotlines = "".join(f'<a class="hotline" href="tel:{n}">{e(name)}<span>{n.translate(digits)}</span></a>' for name, n in c["hotlines"])
